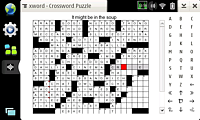
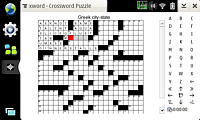
Updated web page and images for v1.0.8.
git-svn-id: https://vcs.maemo.org/svn/xword/www@133 5b29170a-ba62-4f33-b766-3b243e2b32b0

diff --git a/index.html b/index.html
@@ -1,6 +1,10 @@
 <html>
   <head>
     <title>xword for maemo</title>
+    <style type="text/css">
+      div.shot { width: 220px; margin-bottom: 20px; 
+                 float: left; text-align: center; }
+    </style>
   </head>
   <body>
 
@@ -11,6 +15,7 @@
       <a href="#installing">installing</a> | 
       <a href="#running">running</a> | 
       <a href="#desktop">desktop</a> | 
+      <a href="#trouble">troubleshooting</a> | 
       <a href="#bugs">bugs</a> 
     </div>
 
@@ -24,8 +29,8 @@
       href="http://www.pygtk.org/">pyGTK</a>.  It is based on the <a
       href="http://x-word.org/">original Xword program</a> written by Bill
     McCloskey.  The NIT version fixes a few bugs in the original code and
-    adds some functionality (e.g. built-in keyboard) to make the
-    program more usable on the NIT.
+    adds functionality (e.g. built-in keyboard) to make the program more
+    usable on the NIT.
     </p>
     <p>
     Before you go any farther, you should be aware of the following
@@ -33,9 +38,9 @@
     <ul>
       <li>The program is <b>sloooow</b>.  It is basically one very long
       python script.  On the NIT with large crossword puzzles, there is
-      sometimes a one second delay between input and screen update.
-      Fortunately, touchscreen inputs are queued so that you don't have to
-      wait for the screen to update before entering the next letter.
+      a noticeable delay between input and screen update.  Fortunately,
+      touchscreen inputs are queued so that you don't have to wait for the
+      screen to update before entering the next letter.
     </li>
     <li>The program has been tested with OS2006, OS2007, and OS2008, so it
     should run on any Nokia Internet Tablet, including the 770. The
@@ -122,15 +127,12 @@
       <ul>
         <li><b>Open...</b> - Open a .puz file.
         </li>
-        <li><b>Open Recent</b> - Show a list of the last five .puz files
-        opened.  This allows you to quickly (re)open recent puzzles.
+        <li><b>Open Recent &gt;</b> - Show a list of the last five .puz
+        files opened.  This allows you to quickly (re)open recent puzzles.
         </li>
         <li><b>Save As...</b> - Save the current puzzle to a new file.  
         Note that the state of the current puzzle gets saved
         automatically when you exit the program.
-        </li>
-        <li><b>Properties...</b> - Show the properties of the current
-        puzzle.  This includes the title, author, and copyright information.
         </li>
         <li><b>Quit</b> - Exit the xword application.
         </li>
@@ -143,24 +145,63 @@
     <b>Puzzle</b>
     <blockquote>
       <ul>
-        <li><b>Check Word</b> - Check the current word for correctness.  If
-        the word is correct, you will be shown a pop-up window saying "No
-        mistakes found".  Otherwise, you will be shown a pop-up window saying
-        "Incorrect" and the incorrect letters will be marked with a big "X"
-        through them as well as a small black triangle in the corner to keep
-        track of the letters you needed help with.
+        <li><b>Check &gt;</b> - Check the current item for correctness.  If
+        the item is correct, you will be shown a pop-up window saying "No
+        mistakes found".  Otherwise, you will be shown a pop-up window
+        saying "Incorrect" and the incorrect squares will be marked with a
+        big "X" through them.  When you correct the letters, a small black
+        triangle will be shown in the corner to keep track of the letters
+        you needed help with.
+        <blockquote>
+          <ul>
+            <li><b>Letter</b> - Check the current letter for correctness.
+            </li>
+            <li><b>Word</b> - Check the current word for correctness.  
+            </li>
+            <li><b>Puzzle</b> - Perform "Check Letter" on all currently
+             filled-in squares.  Thus, you can check a partially completed
+             puzzle.
+            </li>
+          </ul>
+        </blockquote>
         </li>
-        <li><b>Check Puzzle</b> - Perform "Check Word" on all currently
-        filled in words.  Thus, the puzzle does not need to be complete to
-        check it.
+        <li><b>Solve &gt;</b> - Fill in the correct letters for the current
+            item.  The letters that get filled in by the application will be
+            marked with a small red triangle in the corner to keep track of
+            the letters you needed help with.
+        <blockquote>
+          <ul>
+            <li><b>Letter</b> - Fill in the correct letter for the current
+            letter.
+            </li>
+            <li><b>Word</b> - Fill in the correct letters for the current
+            word.  
+            </li>
+            <li><b>Puzzle</b> - Fill in all letters for the puzzle.  Note
+            that you will be asked to confirm this selection before the
+            program shows you the solution.
+            </li>
+          </ul>
+        </blockquote>
         </li>
-        <li><b>Solve Word</b> - Fill in the correct letters for the current
-        word.  The letters that get filled in by the application will be
-        marked with a small red triangle in the corner to keep track of the
-        letters you needed help with.
+        <li><b>Clear &gt;</b> - Clear the letter(s) and any error marks for
+        the current item.  This allows you to "cheat" by removing all black
+        and red triangles showing the letters you needed help with.  
+        <blockquote>
+          <ul>
+            <li><b>Letter</b> - Clear the current square.
+            </li>
+            <li><b>Word</b> - Clear the current word.
+            </li>
+            <li><b>Puzzle</b> - Completely clear the current puzzle and
+            start from scratch.  Note that you will be asked to confirm this
+            selection before the program resets the puzzle.
+            </li>
+          </ul>
+        </blockquote>
         </li>
-        <li><b>Clear Puzzle</b> - Completely clear the current puzzle and
-        start from scratch.
+        <li><b>Properties...</b> - Show the properties of the current
+        puzzle.  This includes the title, author, and copyright information.
         </li>
         <li><b>Notepad...</b> - Read notes embedded in the puzzle, or
         make your own notes which will be saved along with the current
@@ -183,15 +224,22 @@
         which allows a 21x21 puzzle to fit full screen without scrollbars.
         You can set this value between 12 and 40 inclusive.
         </li>
-        <li><b>Toolbar Layout</b> - Set the location of the "toolbar".  The
-        toolbar can be turned off entirely to maximize screen real estate.
-        You can show the "Check" buttons, which duplicate the functionality
-        of the "Puzzle" menu above AND provide a clock timer.  Or you can
-        show the "Keyboard" which allows you to enter letters and duplicates
-        some functionality of the hardware buttons.  The toolbar can be
-        shown on the left or right side of the screen.
+        <li><b>Solution Buttons &gt;</b> - Set the location of the
+        check/solve buttons.  The default is "off".  Alternatively, you can
+        show them on any side of the screen.  You are given buttons to
+        conveniently "Check/Solve" a "Letter/Word", as well as a timer
+        button.
         </li>
-        <li><b>Word List Layout</b> - The "word list" is the list of
+        <li><b>Onscreen Keyboard &gt;</b> - Set the location of the onscreen
+        keyboard.  The default is "off".  Alternatively, you can show it on
+        any side of the screen.  The keyboard has the letters A-Z as well as
+        some extra buttons to aid in cursor movement.  There are also two
+        "Check/Solve" buttons and a timer button.  The "Check/Solve" buttons
+        check/solve the current word when clicked.  However, these buttons
+        also support "tap-and-hold" which brings up a pop-up menu to
+        check/solve the current letter, word, or puzzle.
+        </li>
+        <li><b>Word List Layout &gt;</b> - The "word list" is the list of
         horizontal and vertical clues.  The default is to show only the
         puzzle.  Alternatively, you can show the word list on the left,
         right, top, bottom, or some combination of these.
@@ -265,45 +313,61 @@
     <p>
     <img src="xword-keys.png" alt="Special keys"/>
     </p>
+    <p>
+    Note: The "Check Word" and "Solve Word" buttons also support
+    "tap-and-hold".  When you tap-hold these buttons, you get a pop-up
+    menu which enables you to check/solve a letter, word, or puzzle.
+    </p>
 
     <hr width="70%">
 
     <h2>screen shots</h2>
 
-    <p>
+    <div class="shot">
     <a href="xword-shot1.png"><img src="xword-shot1-small.png"
-      alt="screenshot1" align="center"/></a> Windowed view with keyboard on
+      alt="screenshot1"/></a><br/>Windowed view with keyboard on
     right
-    </p>
-    <p>
+    </div>
+    <div class="shot">
     <a href="xword-shot2.png"><img src="xword-shot2-small.png"
-      alt="screenshot1" align="center"/></a> Full screen view with keyboard on
-    right
-    </p>
-    <p>
+      alt="screenshot2"/></a><br/>Full screen view with solution buttons on
+    left and keyboard on right
+    </div>
+    <div class="shot">
     <a href="xword-shot3.png"><img src="xword-shot3-small.png"
-      alt="screenshot1" align="center"/></a> Full screen view with word list
-      on left and keyboard on right
-    </p>
-    <p>
+      alt="screenshot3" /></a><br/>Full screen view with word list
+      on left and solution buttons on right
+    </div>
+    <br clear="all"/>
+    <div class="shot">
     <a href="xword-shot4.png"><img src="xword-shot4-small.png"
-      alt="screenshot1" align="center"/></a> Windowed view with checks on left
-    </p>
-    <p>
+      alt="screenshot4"/></a><br/>Windowed view with minimum box size 
+    set to 14
+    </div>
+    <div class="shot">
     <a href="xword-shot5.png"><img src="xword-shot5-small.png"
-      alt="screenshot1" align="center"/></a> Windowed view with minimum box
-    size set to 14
-    </p>
-    <p>
+      alt="screenshot5"/></a><br/>Windowed view with minimum box
+    size set to 40 
+    </div>
+    <div class="shot">
     <a href="xword-shot6.png"><img src="xword-shot6-small.png"
-      alt="screenshot1" align="center"/></a> Windowed view with minimum box
-    size set to 40
-    </p>
-    <p>
-    <a href="xword-shot7.png"><img src="xword-shot7-small.png"
-      alt="screenshot1" align="center"/></a> "File-&gt;Properties..." pop-up
+      alt="screenshot6"/></a><br/>"Puzzle-&gt;Properties..." pop-up
     box
-    </p>
+    </div>
+    <br clear="all"/>
+    <div class="shot">
+    <a href="xword-shot7.png"><img src="xword-shot7-small.png"
+      alt="screenshot7"/></a><br/><a
+      href="http://behindmaemolines.blogspot.com/2008/03/screen-rotation-support-on-os2008-n8x0.html">Rotated</a> full screen with solution buttons
+    on top and keyboard on bottom
+    </div>
+    <div class="shot">
+    <a href="xword-shot8.png"><img src="xword-shot8-small.png"
+      alt="screenshot8"/></a><br/><a
+      href="http://behindmaemolines.blogspot.com/2008/03/screen-rotation-support-on-os2008-n8x0.html">Rotated</a> full screen with word list on
+    top/bottom and keyboard on bottom
+    </div>
+    <br clear="all"/>
 
     <hr/>
 
@@ -312,7 +376,7 @@
     So you want to solve crosswords on your home computer?  Well, you could
     simply download <a
       href="http://www.litsoft.com/across/alite/download.htm">Across
-      Lite</a> for your platform.  But you can also use the same xword
+      Lite</a> for your platform.  Or you can use the same xword
     program that runs on your NIT on any computer that supports <a
       href="http://www.python.org/">python</a>, <a
       href="http://www.pygtk.org/">pyGTK</a>, and <a
@@ -341,23 +405,44 @@
 
     <hr/>
 
+    <a name="trouble"><h1>troubleshooting</h1></a>
+    <p>
+    The program maintains two special hidden files/directories in your home
+    directory.  The "<tt>.crossword.cfg</tt>" file maintains the
+    configuration settings for the program.  The "<tt>.crossword_puzzles</tt>"
+    directory holds the current state for all .puz files you have opened in
+    the past.  If you ever have any problems starting the program or
+    (re)opening a .puz file, you may need to delete these files/directories.
+    To do so, open an xterm and type the following command.
+    </p>
+    <p>
+    <pre>
+        rm  -rf  ~/.crossword.cfg  ~/.crossword_puzzles/</pre>
+    </p>
+
+    <hr/>
+
     <a name="bugs"><h1>bugs</h1></a>
+    <p>
     Please report bugs to the <a
       href="https://garage.maemo.org/projects/xword">xword on maemo
       team</a>.  Here are some known bugs.
-    <ol>
-      <li>There is limited support for "locked" puzzles.  You cannot use the
-      "check word", "solve word", or "check puzzle" functions since the
-      answers are encrypted.  However, you can solve the puzzle on your own.
-      When an unlocked version of the puzzle comes out, you can continue
-      your partially filled in puzzle and then use the "check" functions.
+    </p>
+    <p>
+    <ul>
+      <li>There is limited support for "locked" puzzles.  You cannot use any
+      of the "check" or "solve" functions since the answers are encrypted.
+      However, you can solve the puzzle on your own.  When an unlocked
+      version of the puzzle comes out, you can continue your partially
+      filled-in puzzle and then use the "check/solve" functions.
       </li>
-    </ol>
+    </ul>
+    </p>
 
     <hr/>
 
     <div align="center">
-    Last update: May 21, 2008
+    Last update: June 2, 2008
     </div>
 
   </body>
